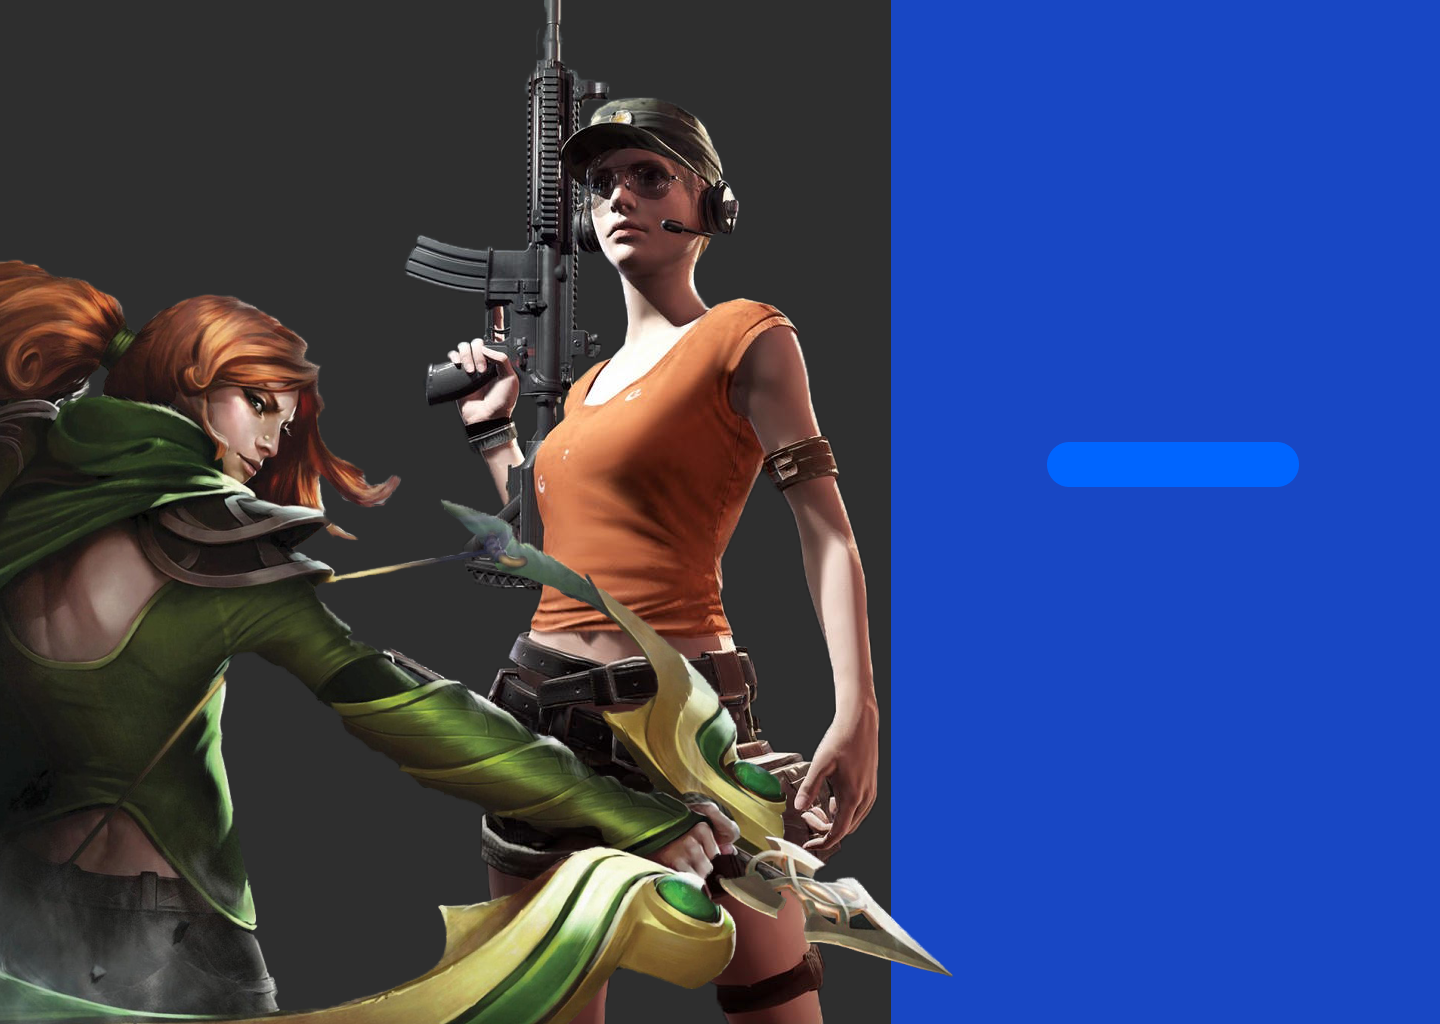
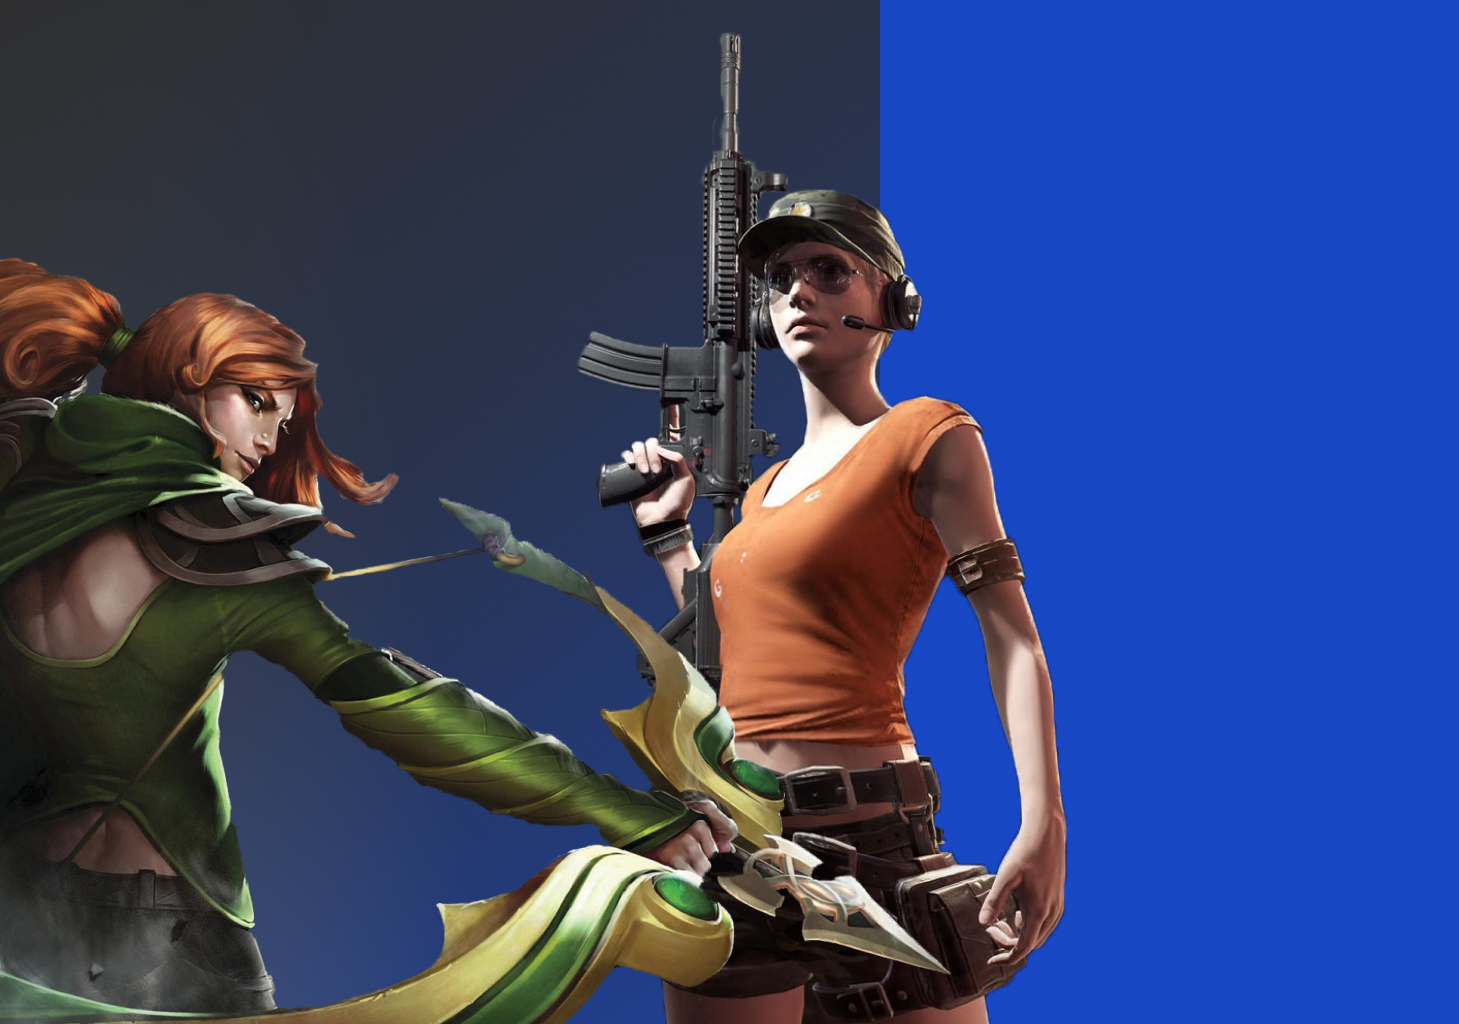
Frontend: landing page + dashboard

diff --git a/frontend/src/app/dashboard/dashboard.component.html b/frontend/src/app/dashboard/dashboard.component.html
@@ -1,45 +1,24 @@
-<p *ngIf="nameBot !== none">
-  
-  <mat-card class="example-card">
-  <mat-card-header>
-    <div mat-card-avatar class="example-header-image"></div>
-    <mat-card-title>{{ nameBot }}</mat-card-title>
-    
-    <mat-card-subtitle>Share this link to your users: </mat-card-subtitle>
-    <mat-card-subtitle><a href={{linkBot}} target="_blank" >{{linkBot}}</a></mat-card-subtitle>
-  </mat-card-header>
-  <mat-card-content>
-    <p>
-      Friends: {{currFriends}} / {{maxFriends}}
-    </p>
-  </mat-card-content>
-  <mat-card-actions>
-    <button mat-button>Raise Friends Limit</button>
-  </mat-card-actions>
-</mat-card>
-</p>
-<p *ngIf="nameBot === null">
-  
-  <mat-card class="example-card">
-  <mat-card-header>
-    <div mat-card-avatar class="example-header-image"></div>
-    <mat-card-title>{{ currFriends }}</mat-card-title>
-    <mat-card-subtitle>DogGGGEEEEE Breed</mat-card-subtitle>
-  </mat-card-header>
-  <img mat-card-image src="https://material.angular.io/assets/img/examples/shiba2.jpg" alt="Photo of a Shiba Inu">
-  <mat-card-content>
-    <p>
-      The Shiba Inu is the smallest of the six original and distinct spitz breeds of dog from Japan.
-      A small, agile dog that copes very well with mountainous terrain, the Shiba Inu was originally
-      bred for hunting.
-    </p>
-  </mat-card-content>
-  <mat-card-actions>
-    <button mat-button>LIKE</button>
-    <button mat-button>SHARE</button>
-  </mat-card-actions>
-</mat-card>
-</p>
+<div class="grid">
+  <div class="content">
+    <div class="contentScroll">
+      <mat-card class="example-card">
+          <mat-card-header>
+            <div mat-card-avatar class="example-header-image"></div>
+            <mat-card-title>{{ nameBot }}</mat-card-title>
+            
+            <mat-card-subtitle>Share this link to your users: </mat-card-subtitle>
+            <mat-card-subtitle><a href={{linkBot}} target="_blank" >{{linkBot}}</a></mat-card-subtitle>
+          </mat-card-header>
+          <mat-card-content>
+            <p>
+              Friends: {{currFriends}} / {{maxFriends}}
+            </p>
+          </mat-card-content>
+          <mat-card-actions>
+            <button mat-button>Raise Friends Limit</button>
+          </mat-card-actions>
+        </mat-card>
+   
 
 <mat-card class="message-stats" >
   <mat-card-header>
@@ -49,8 +28,7 @@
 </mat-card>
 <mat-card class="message-stats" >
   <mat-card-header>
-    <mat-card-title><button type="button" [routerLink]="'/newMessage'">Create new message</button></mat-card-title>
-    
+    <app-new-message></app-new-message>
   </mat-card-header>
 
 </mat-card>
@@ -65,3 +43,6 @@
   </mat-card-header>
 
 </mat-card>
+</div>
+</div>
+</div>

diff --git a/frontend/src/app/landing/landing.component.css b/frontend/src/app/landing/landing.component.css
@@ -4,68 +4,79 @@
 }
 .grid{
     display: grid;
+    height: 100%;
+}
 
-}
-.header{
-    background-image: url("..\images\colored_body_top2.png");
-    height: 15vh;
-    text-align: center;
-}
-.header > h1{
-    margin-top: 10px;
-    font-family: "Motiva Sans", Sans-serif;
-    font-size: 50px;
-    color: #b8b6b4;
-
-}
 .content{
     background-image: url("..\images\Desktop.png");
-    height: 90vh;
+    background-position-y:-20vh;
+    height: 100%;
     display: grid;
     grid-template-columns: 1fr, 1fr;
-    grid-template-areas: "description button"
+    grid-template-areas: "slogan description"
 }
-.footer{
-    background-color: rgb(44, 43, 48);
-    height: 5vh;
+.slogan{
+    grid-area: slogan;
+    margin-left: 15%;
+    margin-top: 2vh;
 }
-.createBot{
-
-
-}
-.description{
-    grid-area: description;
-}
-
-
-.description > h1{
-    color: rgb(137, 143, 143);
-    font-size: 30px;
-    text-align:center;
-}
-.description > p{
+.slogan >h1{
+    font-family: "Motiva Sans", Sans-serif; 
     color:rgb(137, 143, 143);
-    text-align:center;
+    font-size: 40px;
+    
+}
+
+
+.description{
+    
+    grid-area: description;
+    display: grid;
+    
+    grid-template-rows: 1fr 1fr;
+    grid-template-areas:
+     "text"
+     "btn";
+}
+
+
+.text > h1 {
+    font-family: "Motiva Sans", Sans-serif; 
+    padding: 10px;
+    color:rgb(137, 143, 143);
+    font-size: 30px;
+}
+.text > h2 {
+    font-family: "Motiva Sans", Sans-serif; 
+    padding: 10px;
+    color:rgb(137, 143, 143);
+    font-size: 20px;
+}
+
+.text{
+    margin-top:10%;
+    margin-left: 40%;
+    align-self: center;
+    text-align: center;
+    grid-area: text;
 }
 
 .btn{
-    grid-area: button;
+    margin-bottom: 35%;
+    margin-left: 55%;
+    align-self: center;
+    
+    grid-area: btn;
+ 
 
-}
+} 
 .btn > button{
-    margin-top: 40vh;
-    margin-left: 73vw;
-    height: 15vh;
-    width: 20vw;
+    height: 10vh;
+    width: 15vw;
     background-color: rgb(11, 114, 11);
     border: none;
+}
 
-    
-}
-.btn > button > h1{
-    font-family: "Motiva Sans", Sans-serif; 
-    color:rgb(137, 143, 143);
-}
 
 
 .page1{

diff --git a/frontend/src/app/landing/landing.component.html b/frontend/src/app/landing/landing.component.html
@@ -1,7 +1,54 @@
+<<<<<<< HEAD
 <form class="example-form">
   <mat-form-field class="example-full-width">
     <input #MessageLogin matInput placeholder="Text your name here" value="Guest">
   </mat-form-field>
 </form>
 <button type="button" mat-raised-button color="warn" (click)="sendLogin(MessageLogin.value)">Try For Free</button>
+=======
+
+  <div class="page1">
+      <div class="grid">
+
+          <div class="content">
+            <div class="slogan">
+                <h1>Find costumer where <br> 
+                  they want to be <br>
+                  found</h1>
+            </div>
+          
+            <div class="description">
+              <div class="text">
+                <h1>
+                  Communicate with gamers
+                </h1>
+                <h2>
+                  Communicate with gamers<br>
+                  Communicate with gamers<br>
+                  Communicate with gamers<br>
+                  Communicate with gamers<br>
+                  Communicate with gamers<br>
+                  Communicate with gamers
+                </h2>  
+                
+              </div>
+              <div class="btn">
+                <button>Create Steam Bot</button>
+              </div>
+              </div>
+          
+
+        </div>
+      </div>
+  </div>
+
+  <div class="page2">
+
+  </div>
+ 
+
+
+
+
+>>>>>>> Frontend: landing page + dashboard
 

diff --git a/frontend/src/app/dashboard/dashboard.component.css b/frontend/src/app/dashboard/dashboard.component.css
@@ -11,3 +11,27 @@
   background-image: url('https://cdn6.aptoide.com/imgs/2/b/7/2b7f9860f0980ff2fdcd28aae13a5c7f_icon.png');
   background-size: cover;
 }
+
+.grid{
+  background-image: url("..\images\settingBg.png");
+  background-size: cover;
+  background-position-y: -25vh;
+  height: 100%;
+  display: grid;
+  grid-template-columns: 1fr 50% 1fr;
+  grid-template-areas:
+  ". content ."
+}
+
+.content {
+  perspective: 1px;
+  height: 100%;
+  grid-area: content;
+  overflow: hidden;
+}
+.contentScroll{
+  height: 100%;
+  margin-right: -50px; 
+  padding-right: 50px; 
+  overflow-y: scroll;
+}

diff --git a/frontend/src/app/settings-page/settings-page.component.html b/frontend/src/app/settings-page/settings-page.component.html
@@ -29,10 +29,9 @@
                 </div>
 
                 <div class="btn">
-                <button type="button" mat-raised-button color="accent"  (click)="sendSettings(NameForm.value, DiscriptionForm.value, RespondForm.value)">Change settings</button>
-
+                <button type="button" mat-raised-button color="primary"  (click)="sendSettings(NameForm.value, DiscriptionForm.value, RespondForm.value)">Change settings</button>
               </div>
-
+            
             </div>
           
       </div>

diff --git a/frontend/src/app/settings-page/settings-page.component.css b/frontend/src/app/settings-page/settings-page.component.css
@@ -12,10 +12,10 @@
     ". content ."
 }
 
-.content{
+.content {
     grid-area: content;
-    background-color: rgba(110, 104, 104, 0.438);
     display: grid;
+    background-color:whitesmoke;
     grid-template-columns: 1fr 1fr 1fr 1fr;
     grid-template-rows: 1fr 1fr 1fr 1fr 1fr;
     grid-template-areas: 
@@ -61,7 +61,7 @@
 }
 
 mat-form-field{
-    background-color: rgb(250, 250, 250);
+    /*border:solid 1px;*/
     width:100%;
 }
 

diff --git a/frontend/src/app/new-message/new-message.component.html b/frontend/src/app/new-message/new-message.component.html
@@ -2,6 +2,7 @@
   <mat-form-field class="example-full-width">
     <input #MessageForm matInput placeholder="Text message here" value="Sushi">
   </mat-form-field>
+  <button type="button" mat-raised-button color="primary" (click)="sendMessageToSteam(MessageForm.value)">Warn</button>
 </form>
-<button type="button" mat-raised-button color="warn" (click)="sendMessageToSteam(MessageForm.value)">Warn</button>
+
 

diff --git a/frontend/src/app/app.component.html b/frontend/src/app/app.component.html
@@ -2,7 +2,6 @@
 <mat-toolbar>
   
     <div class="nav">
-        <a [routerLink]="'/newMessage'">New message</a>
         <a [routerLink]="'/dashboard'">Dashboard</a>
         <a [routerLink]="'/settings'">Settings</a>
     </div>
